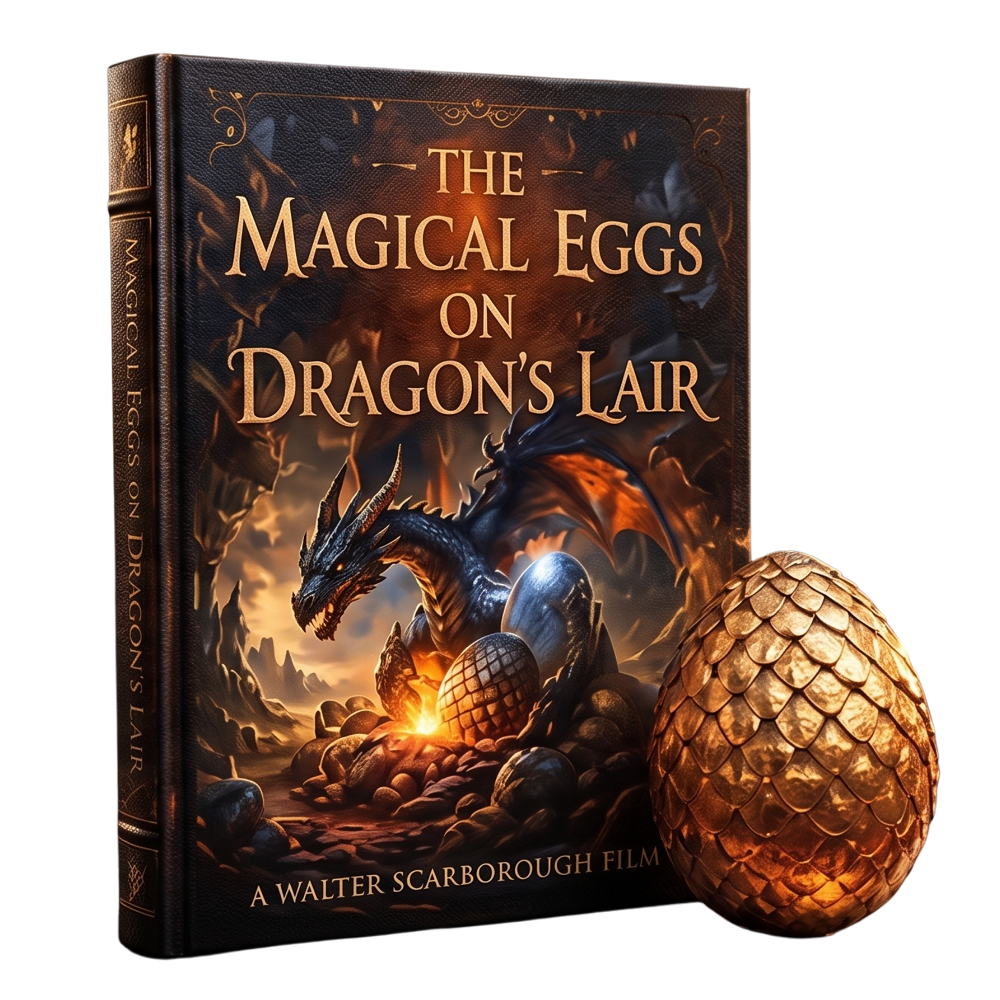
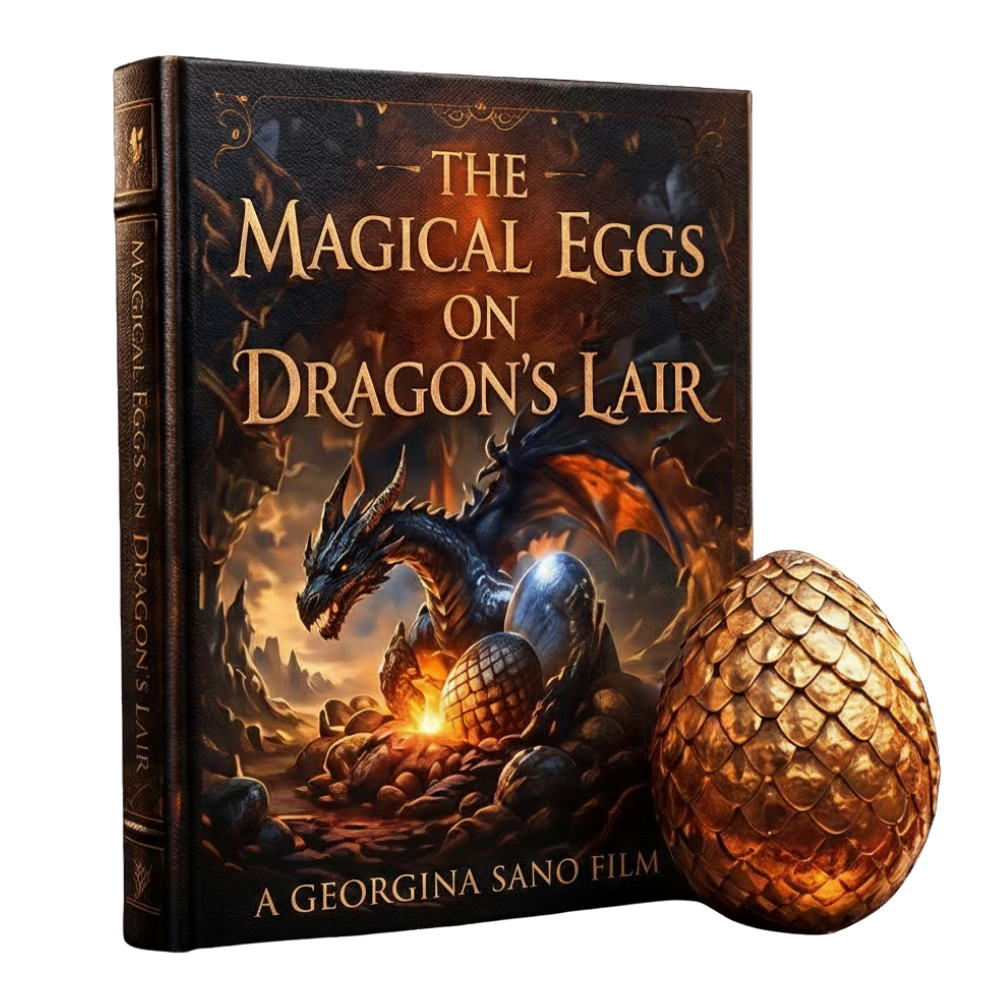
Name changes from Footer & Hero-Section

diff --git a/foxpress-studios/src/components/layout/Footer.tsx b/foxpress-studios/src/components/layout/Footer.tsx
@@ -50,7 +50,7 @@ export default function Footer() {
         <div className={`${containerClasses} pt-10 pb-4`}>
           <div className="grid grid-cols-1 md:grid-cols-3 gap-6 lg:gap-8">
             {/* Column 1 */}
-            <m.div 
+            <m.div
               initial={{ opacity: 0, y: 20 }}
               whileInView={{ opacity: 1, y: 0 }}
               transition={{ delay: 0 * 0.1 }}
@@ -135,7 +135,7 @@ export default function Footer() {
         {/* Row 2 — Contact info block */}
         <div className={`${containerClasses} pb-6`}>
           <div className="grid grid-cols-1 md:grid-cols-3 gap-6 lg:gap-8">
-            <m.div 
+            <m.div
               initial={{ opacity: 0, y: 20 }}
               whileInView={{ opacity: 1, y: 0 }}
               transition={{ delay: 0.1 }}
@@ -147,8 +147,8 @@ export default function Footer() {
               </div>
               <span className="text-muted text-sm">[email redacted]</span>
             </m.div>
-            
-            <m.div 
+
+            <m.div
               initial={{ opacity: 0, y: 20 }}
               whileInView={{ opacity: 1, y: 0 }}
               transition={{ delay: 0.2 }}
@@ -158,10 +158,10 @@ export default function Footer() {
               <div className="w-8 h-8 rounded-full bg-gold/10 flex items-center justify-center flex-shrink-0">
                 <MapPin size={14} className="text-gold" />
               </div>
-              <span className="text-muted text-sm">45 S Arroyo Pkwy, Pasadena, CA</span>
+              <span className="text-muted text-sm">Founded in Slough, Berkshire, England</span>
             </m.div>
-            
-            <m.div 
+
+            <m.div
               initial={{ opacity: 0, y: 20 }}
               whileInView={{ opacity: 1, y: 0 }}
               transition={{ delay: 0.3 }}
@@ -189,7 +189,7 @@ export default function Footer() {
               <p className="text-gold/60 text-xs tracking-[0.2em] uppercase">Storytelling. Creativity. Impact.</p>
             </div>
             <div className="text-center md:text-right">
-              <p className="text-muted text-xs">Crafted with passion in Pasadena, CA</p>
+              <p className="text-muted text-xs">The Future Workds 2 Brunel Way Slough, SL1 1FQ</p>
             </div>
           </div>
         </div>
@@ -204,7 +204,7 @@ export default function Footer() {
             exit={{ opacity: 0, scale: 0.8 }}
             className="fixed bottom-6 right-6 z-50"
           >
-            <button 
+            <button
               onClick={scrollToTop}
               className="w-10 h-10 rounded-full bg-gold flex items-center justify-center shadow-gold cursor-pointer hover:bg-gold-light transition-all duration-300 border-none outline-none"
               aria-label="Scroll to top"